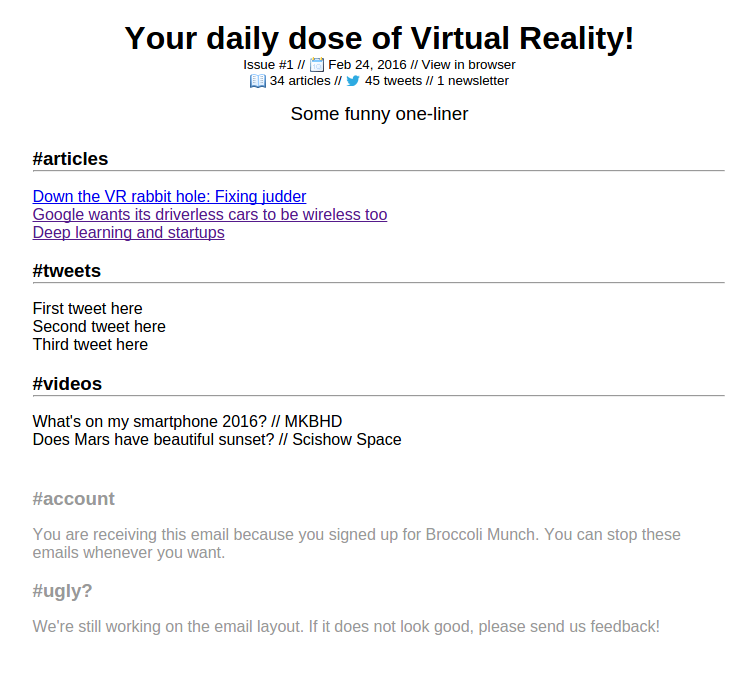
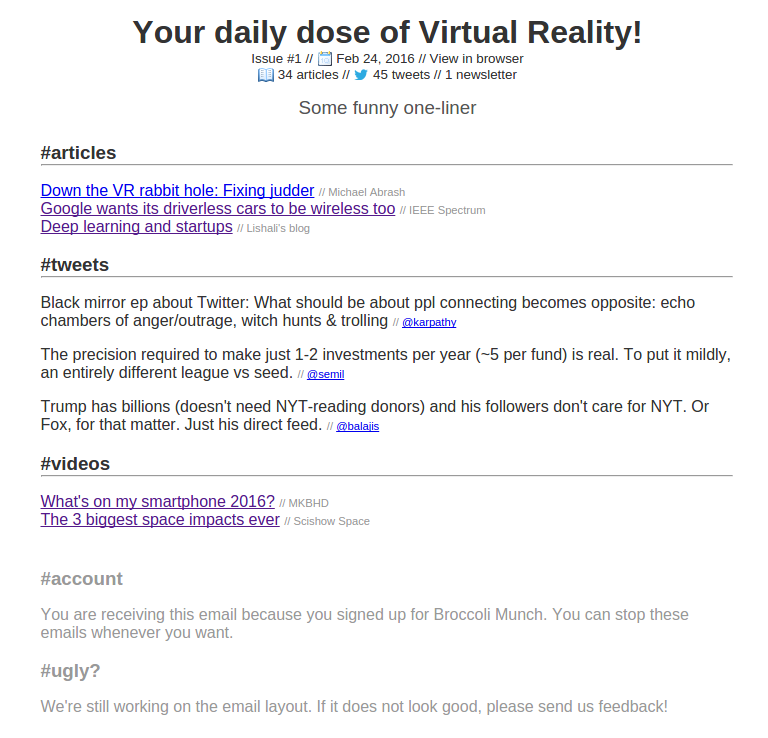
More polish

Changed region(s): [[0.0309, 0.1872, 0.957, 0.7489], [0.0309, 0.7801, 0.9262, 0.9673], [0.1544, 0.0312, 0.8644, 0.1872]]

diff --git a/mockups/newsletter/index.html b/mockups/newsletter/index.html
@@ -19,23 +19,22 @@
                     <h3>#articles</h3>
                     <hr/>
                     <ul>
-                        <li><a href="http://blogs.valvesoftware.com/abrash/down-the-vr-rabbit-hole-fixing-judder/">Down the VR rabbit hole: Fixing judder</a></li>
-                        <li><a href='http://spectrum.ieee.org/cars-that-think/transportation/self-driving/google-wants-its-driverless-cars-to-be-wireless-too'>Google wants its driverless cars to be wireless too</a></li>
-                        <li><a href='http://lishali.github.io/rework_deep_learning/'>Deep learning and startups</a></li>
+                        <li><a href="http://blogs.valvesoftware.com/abrash/down-the-vr-rabbit-hole-fixing-judder/">Down the VR rabbit hole: Fixing judder</a> <span class='source'>// Michael Abrash</span></li>
+                        <li><a href='http://spectrum.ieee.org/cars-that-think/transportation/self-driving/google-wants-its-driverless-cars-to-be-wireless-too'>Google wants its driverless cars to be wireless too</a> <span class='source'>// IEEE Spectrum</span></li>
+                        <li><a href='http://lishali.github.io/rework_deep_learning/'>Deep learning and startups</a> <span class='source'>// Lishali's blog</span></li>
                     </ul>
                     <h3>#tweets</h3>
                     <hr/>
-                    <ul>
-                        <li>First tweet here</li>
-                        <li>Second tweet here</li>
-                        <li>Third tweet here</li>
+                    <p>Black mirror ep about Twitter: What should be about ppl connecting becomes opposite: echo chambers of anger/outrage, witch hunts & trolling <span class='source'>// <a href='twitter.com/karpathy'>@karpathy</a></span></p>
+                    <p>The precision required to make just 1-2 investments per year (~5 per fund) is real. To put it mildly, an entirely different league vs seed. <span class='source'>// <a href='twitter.com/semil'>@semil</a></span></p>
+                    <p>Trump has billions (doesn't need NYT-reading donors) and his followers don't care for NYT. Or Fox, for that matter. Just his direct feed. <span class='source'>// <a href='twitter.com/balajis'>@balajis</a></span></p>
                     </ul>
 
                     <h3>#videos</h3>
                     <hr/>
                     <ul>
-                        <li>What's on my smartphone 2016? // MKBHD</li>
-                        <li>Does Mars have beautiful sunset? // Scishow Space</li>
+                        <li><a href='https://www.youtube.com/watch?v=xdmuzyg50Vg'>What's on my smartphone 2016?</a> <span class='source'>// MKBHD</span></li>
+                        <li><a href='https://www.youtube.com/watch?v=dofWYGka2g8'>The 3 biggest space impacts ever</a> <span class='source'>// Scishow Space</span></li>
                     </ul>
                 </td>
             </tr>

diff --git a/mockups/newsletter/styles.css b/mockups/newsletter/styles.css
@@ -1,5 +1,6 @@
 body {
     font-family: "HelveticaNeue-UltraLight", "Segoe UI", "Roboto Light", sans-serif;
+    color: #333;
 }
 img {
     vertical-align:middle;
@@ -35,6 +36,7 @@ h3.funny {
     padding-top: 0;
     text-align: center;
     font-weight: normal;
+    color: #555;
 }
 
 p.sub1 {
@@ -61,5 +63,10 @@ ul {
 }
 
 .hidden {
+    color: #999;
+}
+
+.source {
+    font-size: 0.7em;
     color: #999;
 }
